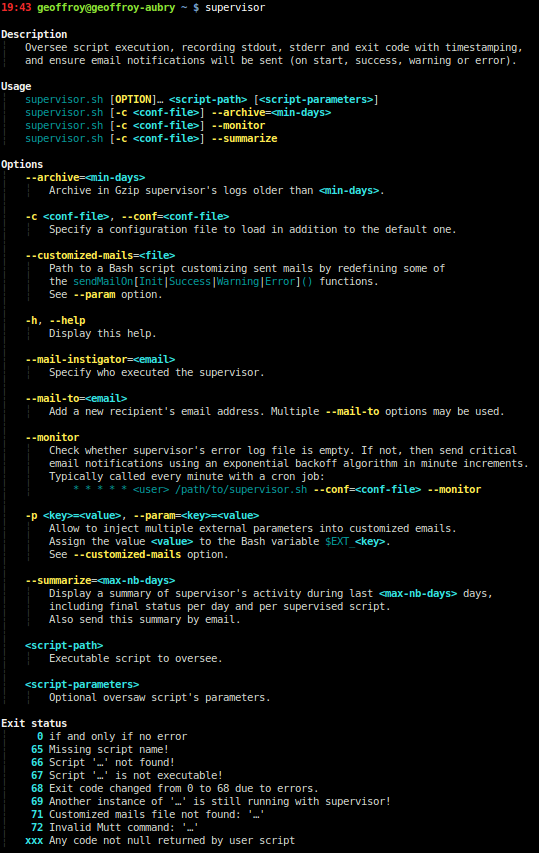
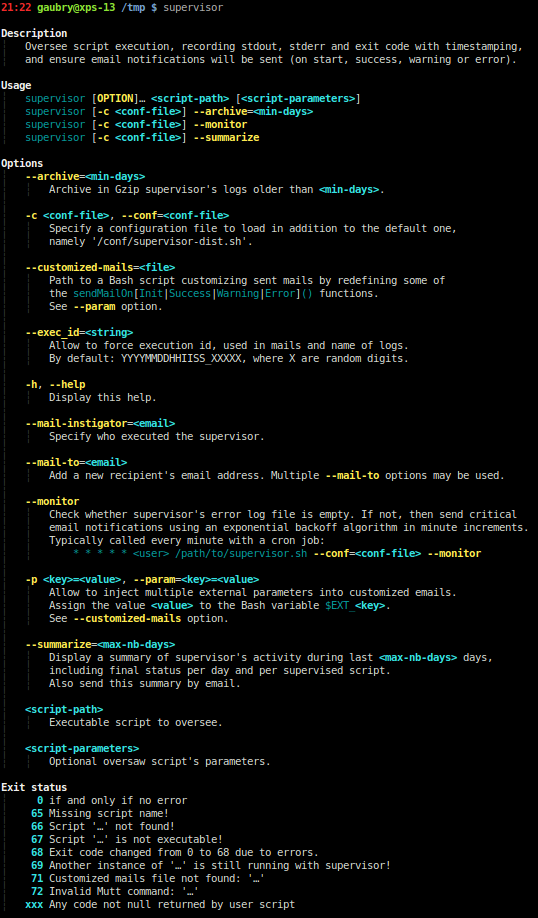
Remove dependency to readlink because not portable to OS-X. #9

Changed region(s): [[0.0, 0.0, 0.9814, 1.0]]

diff --git a/README.md b/README.md
@@ -120,7 +120,8 @@ $ supervisor.sh [-h|--help]
             Archive in Gzip supervisor's logs older than <min-days>.
 
         -c <conf-file>, --conf=<conf-file>
-            Specify a configuration file to load in addition to the default one.
+            Specify a configuration file to load in addition to the default one,
+            namely '/conf/supervisor-dist.sh'.
 
         --customized-mails=<file>
             Path to a Bash script customizing sent mails by redefining some of
@@ -470,7 +471,17 @@ Also send this summary by email to `SUPERVISOR_MAIL_TO` list.
     $ cd Supervisor && git checkout stable
     ```
 
-3. If you have to supervise scripts producing CSV output,
+3. Create your own configuration file and adapt it:
+
+    ```bash
+    $ cp conf/supervisor-dist.sh conf/supervisor.sh
+    ```
+
+    **Note:** file `conf/supervisor-dist.sh` is always loaded.
+    Then optional configuration file specified with option `--conf` is loaded (overwriting).
+    But if no option `--conf` is found, then `conf/supervisor.sh` is loaded if exists.
+
+4. If you have to supervise scripts producing CSV output,
    then install [Awk CSV parser](https://github.com/geoffroy-aubry/awk-csv-parser) component:
     * Manually:
         * See [Installation section](https://github.com/geoffroy-aubry/awk-csv-parser#installation)
@@ -491,7 +502,7 @@ Also send this summary by email to `SUPERVISOR_MAIL_TO` list.
 
         *See <http://getcomposer.org/doc/00-intro.md#installation-nix> for more information to install composer.*
 
-4. You can create a symlink to `supervisor.sh`:
+5. You can create a symlink to `supervisor.sh`:
 
     ```bash
     $ sudo ln -s /path/to/src/supervisor.sh /usr/local/bin/supervisor
@@ -515,7 +526,7 @@ See [CHANGELOG](CHANGELOG.md) file for details.
 ## Continuous integration
 
 [![Build Status](https://secure.travis-ci.org/geoffroy-aubry/Supervisor.png?branch=stable)](http://travis-ci.org/geoffroy-aubry/Supervisor)
-&nbsp;_[Estimated code coverage](https://travis-ci.org/geoffroy-aubry/Supervisor): 88% (544 of 617 lines)._
+&nbsp;_[Estimated code coverage](https://travis-ci.org/geoffroy-aubry/Supervisor): 88% (544 of 618 lines)._
 
 Unit tests with [PHPUnit](https://github.com/sebastianbergmann/phpunit/):
 
